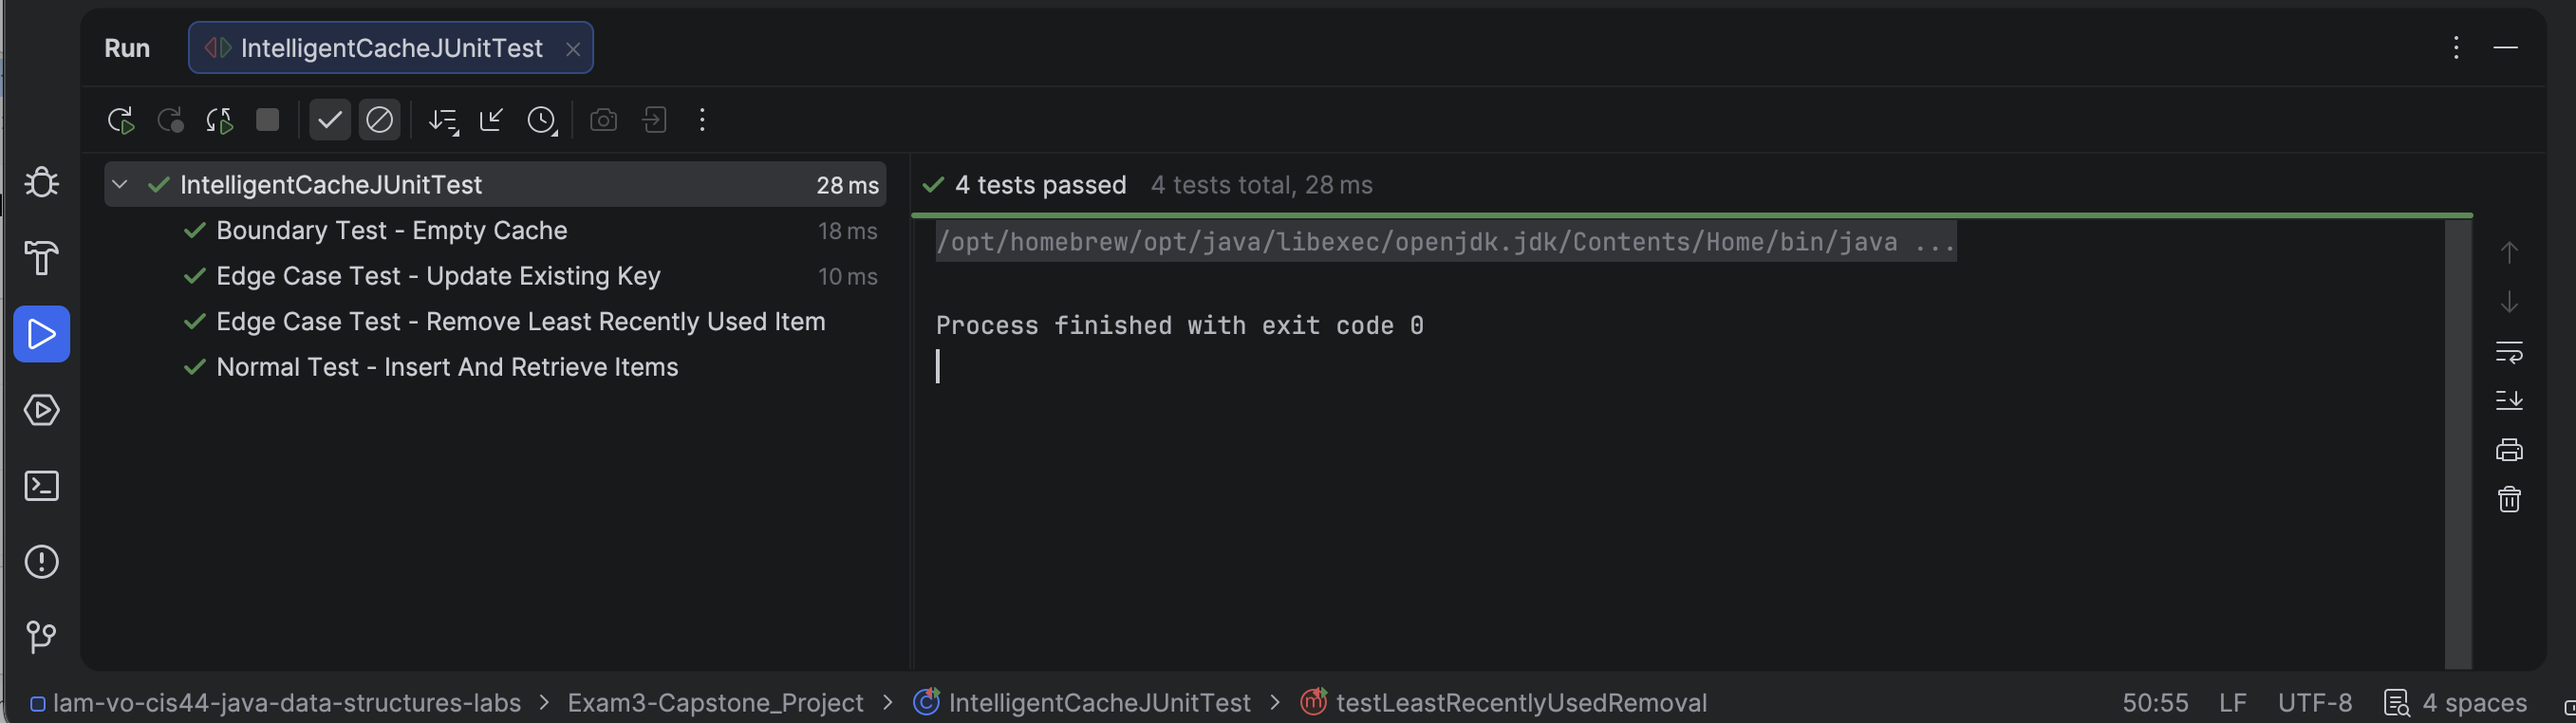
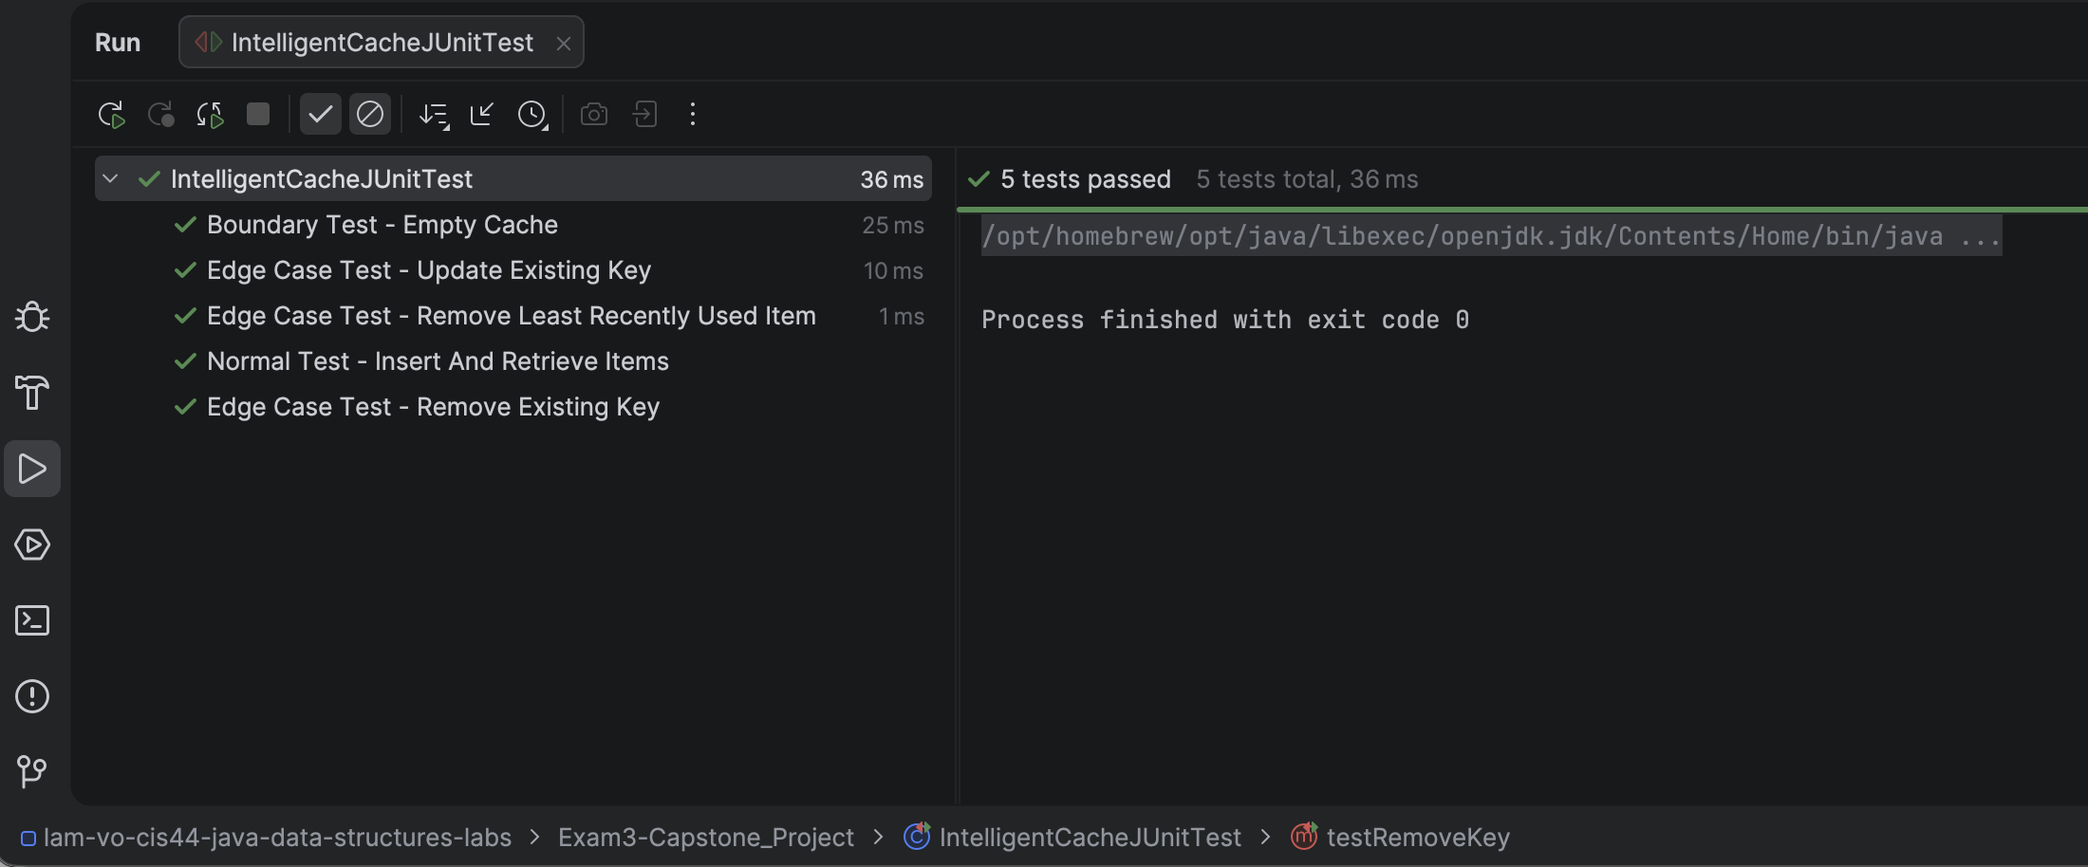
update tests and screenshots

diff --git a/Exam3-Capstone_Project/Main.java b/Exam3-Capstone_Project/Main.java
@@ -3,8 +3,7 @@ public class Main {
         System.out.println("=== Phase 4 Intelligent Cache Testing ===");
 
         System.out.println("\n-- Empty/Boundary Tests --");
-        IntelligentCache<Integer, String> cache =
-                new IntelligentCache<>(3);
+        IntelligentCache<Integer, String> cache = new IntelligentCache<>(3);
         // Boundary Test: empty cache
         printTest(
                 "Verify empty cache size is 0",
@@ -16,44 +15,38 @@ public class Main {
                 cache.get(1) == null
         );
 
-
         System.out.println("\n-- Normal Logic Tests --");
-
         // Logic Test: add items
         cache.put(1, "Google");
         cache.put(2, "Yahoo");
         cache.put(3, "Bing");
-
         printTest(
                 "Verify cache size after 3 inserts is 3",
                 cache.size() == 3
         );
-
         printTest(
                 "Verify most recent key is 3",
                 cache.getMostRecentKey().equals(3)
         );
-
         printTest(
                 "Least recent key is 1",
                 cache.getLeastRecentKey().equals(1)
         );
+
         // Logic Test: get key
         String value = cache.get(1);
-
         printTest(
                 "Verify key 1 returns Google",
                 value.equals("Google")
         );
-
         printTest(
                 "Verify after searching key 1, key 1 moves to front -> most recent",
                 cache.getMostRecentKey().equals(1)
         );
 
-
+        // Edge Cases
         System.out.println("\n-- Edge Case Tests --");
-        // Edge Case: inserting new key to a fulled list
+        // Edge Case: inserting new key to a fulled cache
         cache.put(4, "Apple");
         printTest(
                 "Verify after inserting key 4, cache size is still 3",
@@ -68,16 +61,57 @@ public class Main {
 
         // Edge Case: update existing key
         cache.put(3, "Bing Updated");
-
         printTest(
                 "Verify updating key 3 changes its value",
                 cache.get(3).equals("Bing Updated")
         );
-
         printTest(
                 "Verify updated key 3 becomes most recent",
                 cache.getMostRecentKey().equals(3)
         );
+
+        // Edge Case: remove existing key
+        String removedValue = cache.remove(1);
+
+        printTest(
+                "Verify remove key 1 returns Google",
+                removedValue.equals("Google")
+        );
+
+        printTest(
+                "Verify removed key 1 no longer exists",
+                cache.get(1) == null
+        );
+
+        printTest(
+                "Verify cache size after removing key 1 is 2",
+                cache.size() == 2
+        );
+
+        // Edge Case: remove existing key, then remove again
+        String removedExisting = cache.remove(1);
+        printTest(
+                "Verify remove key 1 returns Google",
+                removedValue.equals("Google")
+        );
+        printTest(
+                "Verify removed key 1 again which not exists returns Null",
+                cache.get(1) == null
+        );
+        printTest(
+                "Verify cache size after removing key 1 is 2",
+                cache.size() == 2
+        );
+
+        // Edge Case: remove missing key
+        String missingRemove = cache.remove(99);
+        printTest(
+                "Verify removing missing key 99 returns null",
+                missingRemove == null
+        );
+
+
+
 
         System.out.println("\nFinal cache:");
         cache.displayCache();

diff --git a/Exam3-Capstone_Project/IntelligentCacheJUnitTest.java b/Exam3-Capstone_Project/IntelligentCacheJUnitTest.java
@@ -57,4 +57,16 @@ public class IntelligentCacheJUnitTest {
         assertEquals("Google Updated", cache.get(1));   // Verify search for key = 1 returns value "Google Updated"
         assertEquals(1, cache.getMostRecentKey());      // Verify most recent used key = 1
     }
+
+    @Test
+    @DisplayName("Edge Case Test - Remove Existing Key")
+    public void testRemoveKey() {
+        IntelligentCache<Integer, String> cache = new IntelligentCache<>(3);
+        cache.put(1, "Google");                             // Step 1. insert (1, "Google")
+        cache.put(2, "Yahoo");                              // Step 2. insert (2, "Yahoo")
+        String removedValue = cache.remove(1);         // Step 3. remove key = 1 -> should return value of key=1 which is "Google"
+        assertEquals("Google", removedValue);      // Verify "Google" is the return value after remove key=1
+        assertEquals(1, cache.size());             // Verify cache size reduced by 1 which is 2-1=1
+        assertNull(cache.get(1));                           // Verify key=1 no longer exist
+    }
 }
